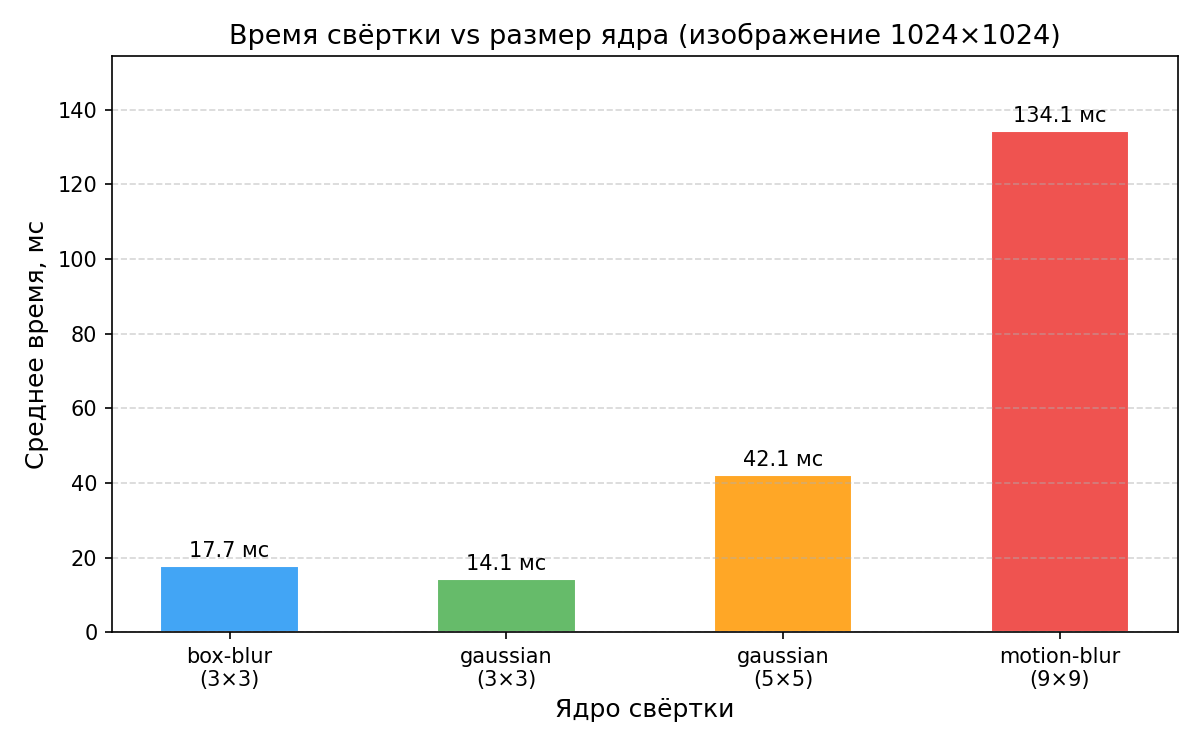
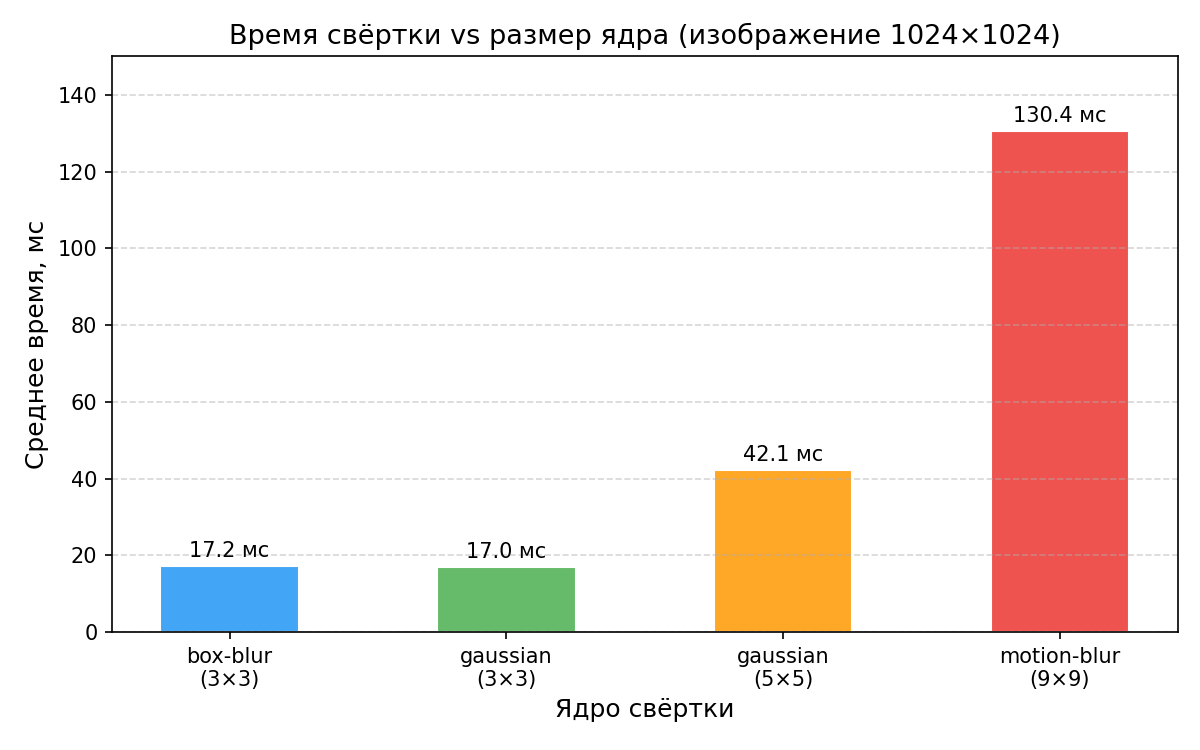
docs(task1): обновлены графики и анализ под актуальные результаты JMH

diff --git a/docs/task1.md b/docs/task1.md
@@ -4,7 +4,7 @@
 
 ## Бенчмарки
 
-Инструмент: JMH 1.37, JDK 21, 1 fork, 3 warmup + 5 measurement iterations по 10 с каждая.
+Инструмент: JMH 1.36, JDK 21, 1 fork, 3 warmup + 5 measurement iterations по 10 с каждая.
 
 **График 1** — зависимость времени от размера изображения (ядро: gaussian 3×3):
 
@@ -14,12 +14,20 @@
 
 ![Время vs размер ядра](plots/bench_kernel_size.png)
 
-## Краткий анализ
+## Анализ
 
-**Зависимость от размера изображения** подтверждает теоретическую сложность O(W·H): при учетверении числа пикселей (256→512, 512→1024, 1024→2048) время растёт примерно в 4 раза — 1.1 → 4.2 → 16.9 → 68.5 мс.
+### График 1
 
-**Зависимость от размера ядра** демонстрирует O(K²): переход с 3×3 (gaussian, 14.1 мс) на 5×5 (42.1 мс) даёт рост ~3×, а на 9×9 (motion-blur, 134.1 мс) — ~9.5×, что близко к теоретическому (25/9 ≈ 2.8× и 81/9 = 9×).
+Время свёртки с ядром gaussian 3×3 на разных размерах изображения: 256² — 1.1 мс, 512² — 3.5 мс, 889² — 12.7 мс, 1024² — 14.1 мс, 2048² — 67.6 мс.
 
-Небольшое отклонение box-blur (17.7 мс) от gaussian (14.1 мс) при одинаковом размере 3×3 объясняется структурой ядра: box-blur имеет 9 ненулевых элементов против 5 у базового gaussian — JIT хуже оптимизирует плотное умножение.
+При учетверении числа пикселей (256→512, 512→1024) время растёт примерно в 4 раза, что соответствует теоретической сложности O(W·H). Переход 1024→2048 даёт рост ×4.8 — небольшое превышение объясняется выходом данных из L2-кэша на больших размерах.
 
-Последовательная реализация является базовой линией для сравнения с параллельными стратегиями в задаче 2.
+### График 2
+
+Время свёртки на изображении 1024×1024 для разных ядер: box-blur 3×3 — 17.2 мс, gaussian 3×3 — 17.0 мс, gaussian 5×5 — 42.1 мс, motion-blur 9×9 — 130.4 мс.
+
+Зависимость от размера ядра соответствует O(K²): переход 3×3 → 5×5 даёт рост ×2.5 (теоретически 25/9 ≈ 2.78), а 3×3 → 9×9 — ×7.7 (теоретически 81/9 = 9). Небольшое отклонение от теории связано с тем, что внутренний цикл по ядру укладывается в кэш и не масштабируется идеально линейно.
+
+box-blur и gaussian при одинаковом размере 3×3 показывают близкие результаты (17.2 и 17.0 мс) — реализация выполняет фиксированное число операций умножения независимо от значений коэффициентов.
+
+Последовательная реализация служит базовой линией для сравнения с параллельными стратегиями в [задаче 2](task2.md).